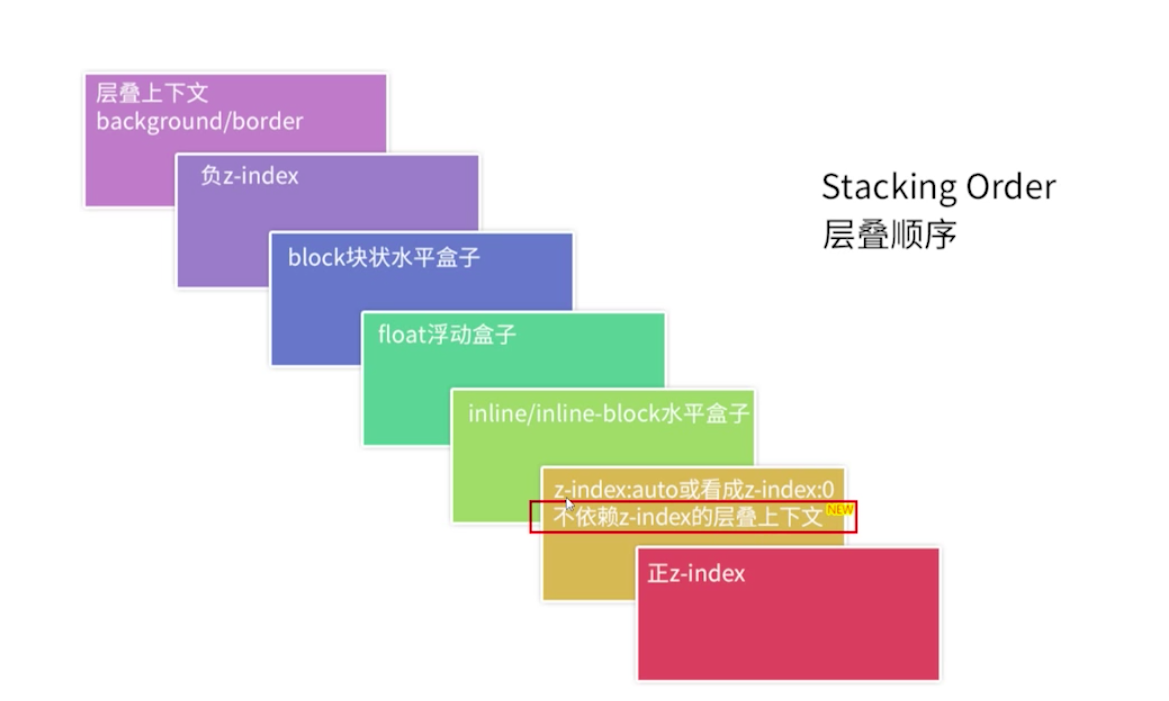
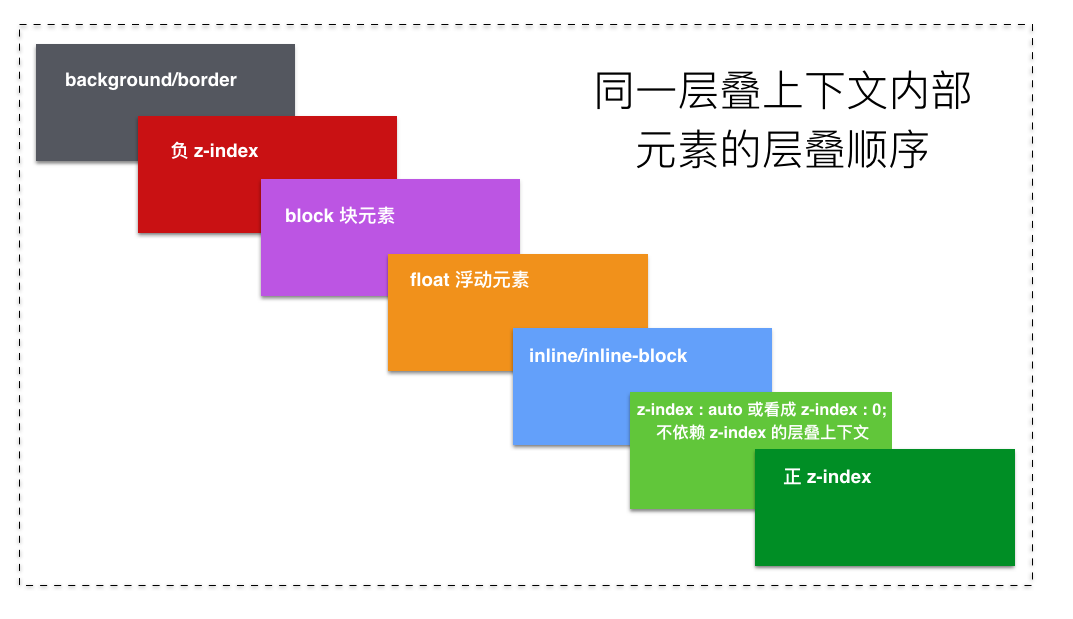
BFC+层叠上下文

diff --git a/css/层叠上下文.md b/css/层叠上下文.md
@@ -1,0 +1,41 @@
+---
+title: 层叠上下文
+---
+## 什么是层叠上下文
+层叠上下文是 HTML 元素的三维概念，可以假象为一条垂直于视窗的 z 轴。当元素创建了重叠上下文时，就可以说这个元素就拥有了一个 z 轴，它内部的子元素发生重叠时，会依据自身属性按照优先级顺序占用 z 轴（重叠上下文）上的空间，优先级最大的元素，排在最上面，离用户也最近。
+
+## 层叠顺序
+层叠顺序就是层叠上下文 *内部元素* 占用 z 轴空间时的优先级顺序，它是一套排序的规则。
+![stacking order](/images/stacking-order.png)
+这张图是从[张大神的博客](http://www.zhangxinxu.com/wordpress/2016/01/understand-css-stacking-context-order-z-index/)中偷来的。
+
+**注意：**
+1. 排在最底下的 background/border 属于当前层叠上下文，即参与层叠排序的所有元素的父元素。
+2. background/border 为装饰，block 和 float 都属于布局，inline/inline-blocks 为内容，内容最上，布局次之，装饰最后的排序是合理的。
+3. 难于理解的是 *“z-index:auto 或者看成 z-index：0 ，还有不依赖 z-index 的层叠上下文”* ，这一堆是什么鬼。其实是这样的：
+   - z-index：auto 与 z-index：0 在层叠顺序的排序中权重的一样的，如果遇上了，那么后面的元素出现在前面元素的上面，另外，定位元素的 z-index 默认为 auto。
+   - 这里之所以又出现层叠上下文，是因为层叠上下文里可以嵌套层叠上下文，事实上页面根元素自带重叠上下文。内部的层叠上下文同样要参与父重叠上下文的排序，如果内部层叠上下文有 z-index 值，那么就按 z-index 的值去跟其他元素比较排序；但是如果内部层叠上下文不支持 z-index 值，那么就按照 z-index：0 来算。
+
+## 层叠上下文的创建
+### CSS 2.1 标准
+1. 页面根元素天生带有层叠上下文
+2. z-index 值为数值的定位元素
+
+### CSS 3
+1. z-index 值为数值的 flex 子元素，即其父元素是 display：flex| inline-flex
+2. opacity 属性值小于 1 的元素
+3. transform 不为 none 的元素
+4. mix-blend-mode 属性值不为 "normal"的元素
+5. filter 值不为 none 的元素
+6. perspective 值不为 none 的元素
+7. isolation 值为 isolate 的元素
+8. position: fixed （目前浏览器实现不用，有的会有的不会）
+
+CSS 3 中创建的层叠上下文大都不会设置 z-index 属性，所以它们跟其他元素排序时按照 z-index：0 来算。即使层叠上下文的创建规则改变了，但是它们仍然遵循之前的层叠顺序的排序规则。
+
+## 总结
+层叠上下文跟 BFC 块级格式化上下文很相似，
+
+本文参考：
+【1】[The stacking context](https://developer.mozilla.org/zh-CN/docs/Web/Guide/CSS/Understanding_z_index/The_stacking_context)
+【2】[深入理解CSS中的层叠上下文和层叠顺序](http://www.zhangxinxu.com/wordpress/2016/01/understand-css-stacking-context-order-z-index/)
